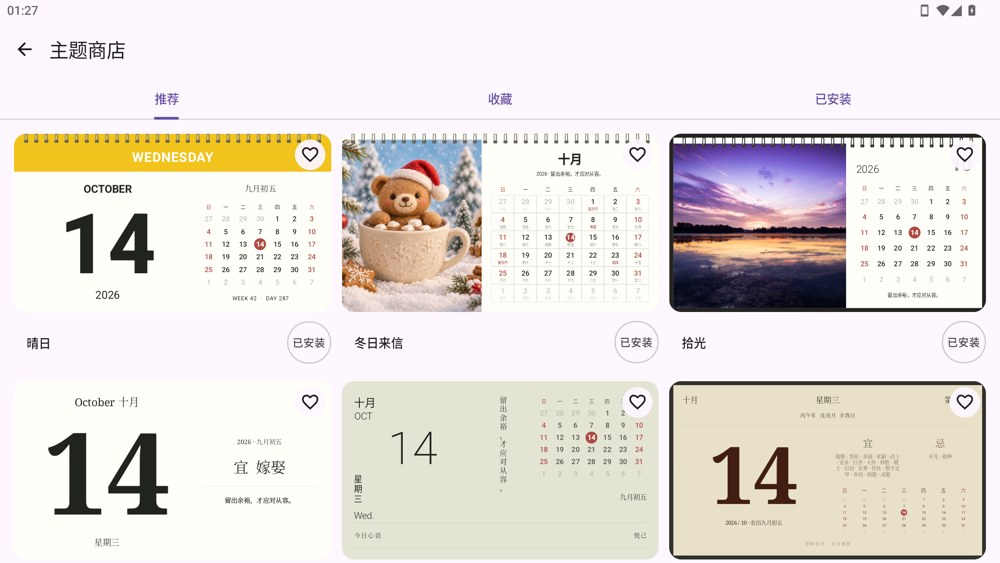
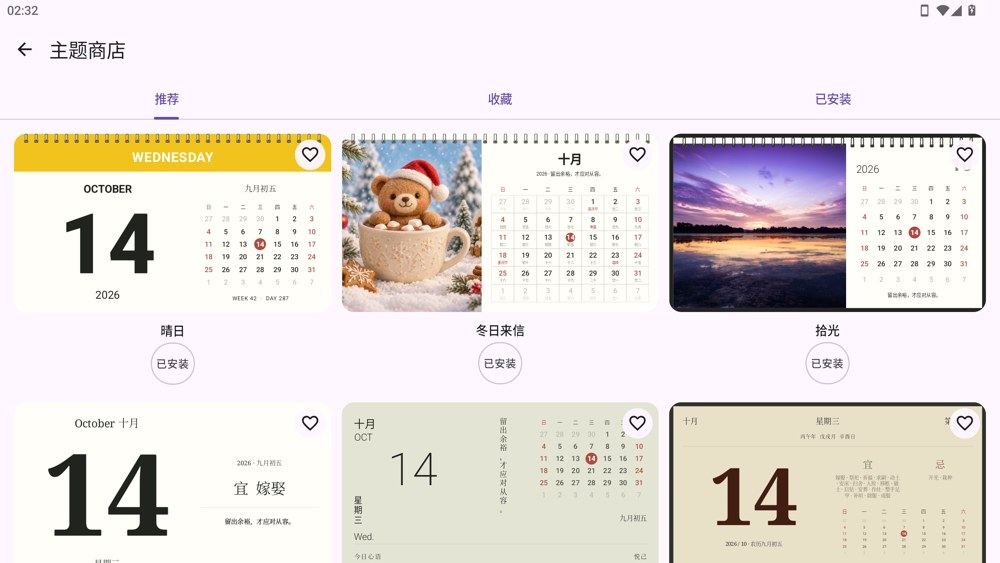
fix: center theme names above store action buttons

diff --git a/app/src/main/java/com/calendarmods/ThemeStore.kt b/app/src/main/java/com/calendarmods/ThemeStore.kt
@@ -27,6 +27,7 @@ import androidx.compose.ui.platform.LocalDensity
 import androidx.compose.ui.platform.LocalWindowInfo
 import androidx.compose.ui.platform.testTag
 import androidx.compose.ui.semantics.*
+import androidx.compose.ui.text.style.TextAlign
 import androidx.compose.ui.text.style.TextOverflow
 import androidx.compose.ui.unit.dp
 import androidx.compose.ui.zIndex
@@ -223,12 +224,13 @@ internal fun ThemeStore(inventory: ThemeInventory, data: CalendarData?, busy: Bo
                                         StoreIcon(if (favorite) FavoriteFilledIcon else FavoriteIcon, if (favorite) "取消收藏${theme.title}" else "收藏${theme.title}", favorite)
                                     }
                                 }
-                                Row(Modifier.fillMaxWidth().padding(start = 14.dp, top = 10.dp).heightIn(min = 48.dp),
-                                    verticalAlignment = Alignment.CenterVertically,
-                                    horizontalArrangement = Arrangement.spacedBy(8.dp)) {
+                                Column(Modifier.fillMaxWidth().padding(top = 10.dp),
+                                    horizontalAlignment = Alignment.CenterHorizontally,
+                                    verticalArrangement = Arrangement.spacedBy(4.dp)) {
                                     Text(theme.title.substringBefore(" · "),
-                                        Modifier.weight(1f).testTag("store-title-${theme.name}"),
-                                        style = MaterialTheme.typography.titleSmall, maxLines = 1, overflow = TextOverflow.Ellipsis)
+                                        Modifier.fillMaxWidth().padding(horizontal = 4.dp).testTag("store-title-${theme.name}"),
+                                        style = MaterialTheme.typography.titleSmall, textAlign = TextAlign.Center,
+                                        maxLines = 1, overflow = TextOverflow.Ellipsis)
                                     if (!editing || page != 2) StoreInstallButton(theme, installed, page == 2,
                                         enabled = !busy && !savingFavorites,
                                         onClick = {

diff --git a/app/src/androidTest/java/com/calendarmods/CalendarAcceptanceTest.kt b/app/src/androidTest/java/com/calendarmods/CalendarAcceptanceTest.kt
@@ -209,7 +209,8 @@ class CalendarAcceptanceInstrumentation : Instrumentation() {
                 check(firstRow.zipWithNext().all { (a, b) -> a.right <= b.left })
                 val title = Rect().also { b -> nodes().first { it.viewIdResourceName == "store-title-GOLDEN" }.getBoundsInScreen(b) }
                 val button = Rect().also { b -> nodes().first { it.viewIdResourceName == "add-use-GOLDEN" }.getBoundsInScreen(b) }
-                check(title.right <= button.left && kotlin.math.abs(title.centerY() - button.centerY()) <= 2)
+                check(title.bottom <= button.top && kotlin.math.abs(title.centerX() - button.centerX()) <= 2)
+                check(kotlin.math.abs(button.centerX() - firstRow.first().centerX()) <= 2)
                 SystemClock.sleep(1500) // Cold orientation-specific thumbnails settle before the visual sample.
                 capture("store-recommended-${if (rotation == 0) "portrait" else "landscape"}")
             }

diff --git a/docs/theme-store-validation.md b/docs/theme-store-validation.md
@@ -6,7 +6,7 @@
 
 - 七个预设主题一次性迁移为已安装，保留外部主题、顺序、当前选择与样式。删除后重启不重新添加；重新应用排在末尾，恢复默认样式。
 - 仓库覆盖收藏批量持久化、失败不发布新状态、至少一个主题、删除图片清理、默认样式重置和排序保存。
-- 推荐、收藏、已安装保持三列；主题名称与按钮同行、垂直居中，名称内缩 14dp，整行距预览 10dp。横竖屏实际坐标断言通过。
+- 推荐、收藏、已安装保持三列；主题名称与按钮分两行水平居中，名称在上、按钮在下，名称距预览 10dp、与按钮间隔 4dp。横竖屏实际坐标断言通过。
 - “应用”安装后留在当前页，“已安装”打开共用删除确认；已安装页保留“使用”。已移除独立的安装状态文字。
 - 收藏页取消收藏后心形变空心、Toast 提示、卡片保留；旋转和后台保持待取消状态，再点可撤销；离页原子提交。模拟文件写入失败时恢复实心收藏并留在原页。
 - 真实拖动手势保存排序；阴影仅覆盖圆角预览，标题区域无矩形阴影。上滑不足阈值回弹，超过阈值显示删除确认，不误进全屏；垃圾桶以带滞回的缩放和轻跳反馈阈值。
@@ -50,3 +50,7 @@ adb shell am instrument -w com.calendarmods.test/com.calendarmods.CalendarAccept
 ```
 
 本地完整日志为 `theme-store-final-build.log`、`theme-store-device-final.log`、`theme-store-performance-final.log`、`theme-midnight-final.log`、`theme-store-regression-final.log`、`theme-store-contract-final.log`、`theme-store-styles-final.log`。原始 PNG、录屏及逐帧联系表保存在忽略目录 `docs/verification/theme-store/`；产品截图为 [`theme-store-portrait.jpg`](screenshots/theme-store-portrait.jpg) 和 [`theme-store-landscape.jpg`](screenshots/theme-store-landscape.jpg)。
+
+### 居中双行布局复测
+
+按手机显示反馈，将名称与安装按钮改为上下两行并水平居中。横竖屏断言名称位于按钮上方，二者与卡片中心对齐；APK 构建及商店 5 组设备回归通过。对应日志为 `theme-store-centered-build.log`、`theme-store-centered-device.log`，上方产品截图已更新。

diff --git a/docs/theme-contract.md b/docs/theme-contract.md
@@ -141,7 +141,7 @@ adb shell am instrument -w com.calendarmods.test/com.calendarmods.CalendarAccept
 
 ## 商店预览与交互
 
-名称与按钮同行、垂直居中，名称从预览圆角内侧起始；推荐和收藏页使用“应用／已安装”按钮；已安装页独立提供“使用”和编辑操作。所有移除入口共用确认及最少一个主题保护。收藏页的待取消 ID 使用可保存状态保留，心形即时改变、卡片暂不移除；只有切换标签或离开商店时才批量提交。旋转、后台和弹窗不提交，保存失败还原收藏显示并提示。
+名称与按钮分两行水平居中，名称在上、按钮在下；推荐和收藏页使用“应用／已安装”按钮；已安装页独立提供“使用”和编辑操作。所有移除入口共用确认及最少一个主题保护。收藏页的待取消 ID 使用可保存状态保留，心形即时改变、卡片暂不移除；只有切换标签或离开商店时才批量提交。旋转、后台和弹窗不提交，保存失败还原收藏显示并提示。
 
 商店预览按可见项生成静态位图，三个标签共用 32 MiB LRU。键包含主题契约/版本、日期、样式、图片文件修订、窗口方向、目标像素尺寸、密度和字体缩放。生成限流为一个，离屏任务取消；入口展开、拖动和滚动时暂停未缓存预览的生成，静止后再继续；图源在 IO 线程按目标尺寸解码，渲染完成后释放临时图源与完整日历树。安装状态、收藏、顺序变化不使相同预览失效。商店打开时暂停宿主宜忌轮播。
 
